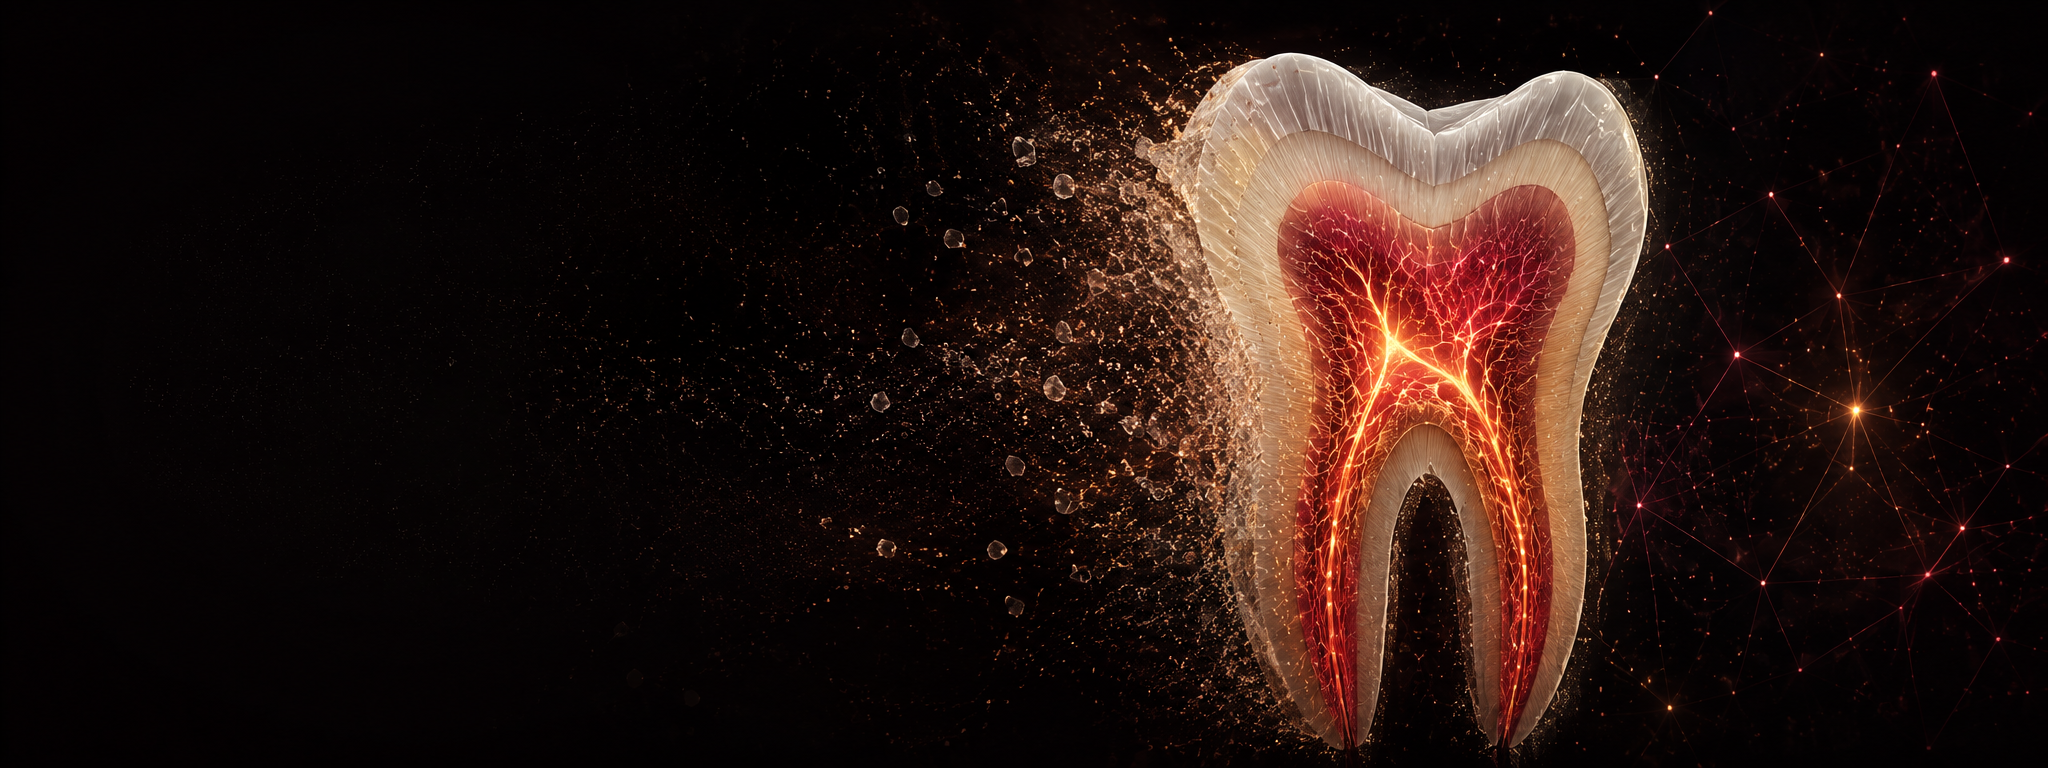
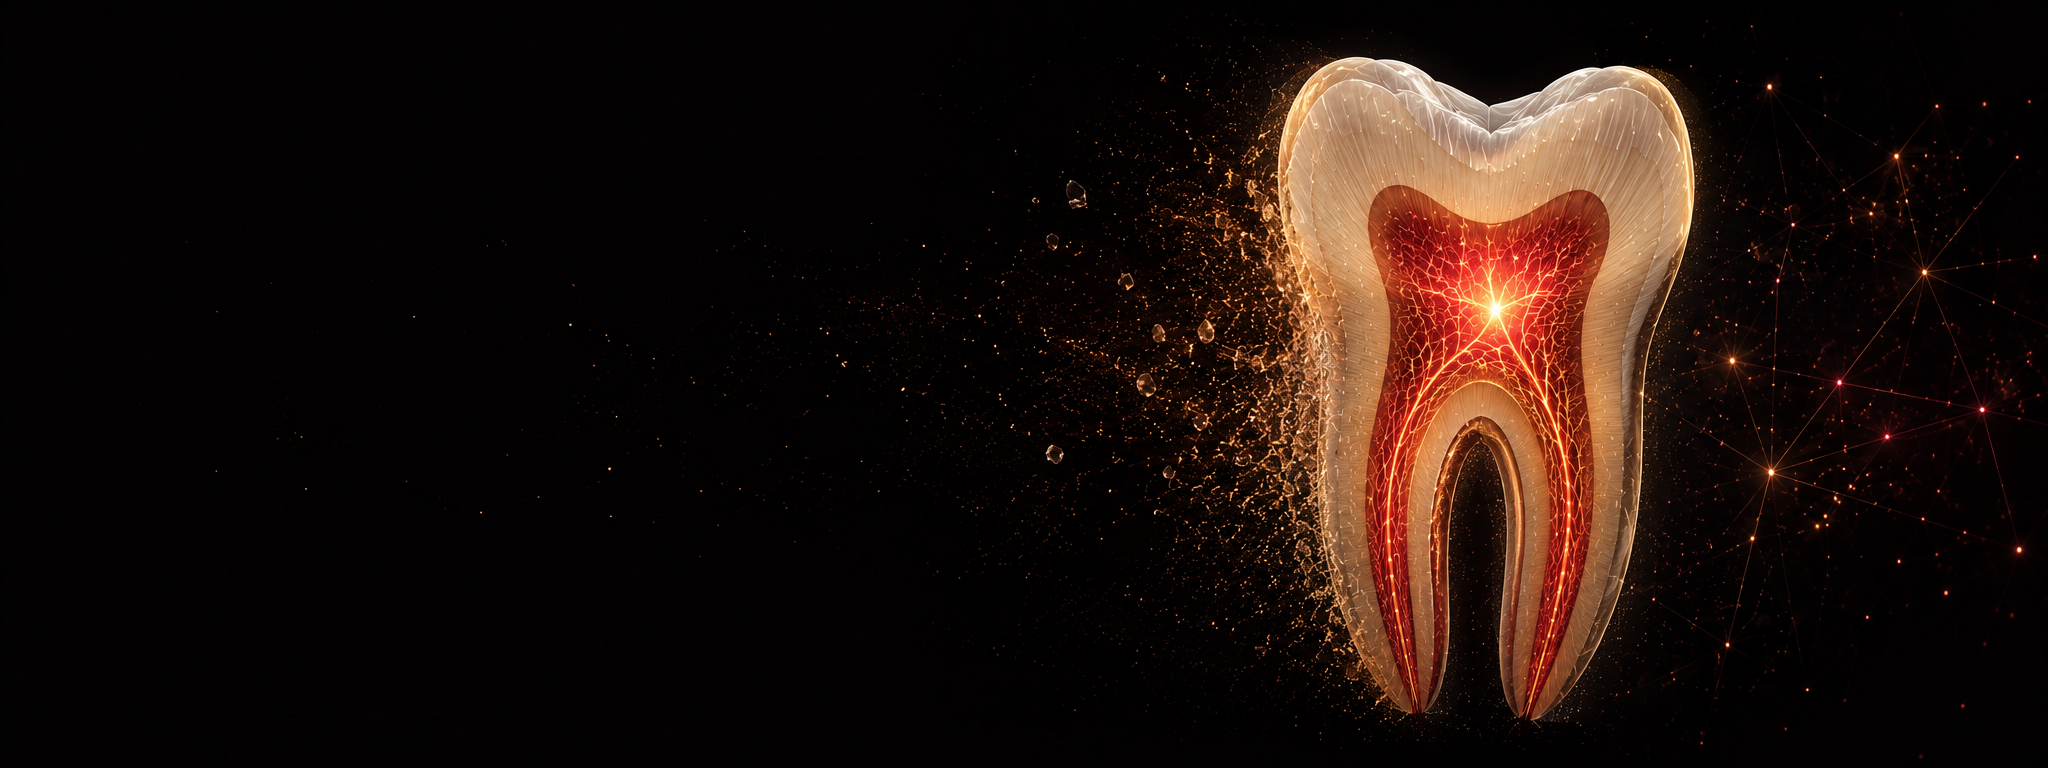
Hero: re-anchor pulp glow onto right-weighted tooth
- New right-weighted hero art (tooth ~72%, dark-left for the manifesto).
- Shift the animated chamber glow + glints + clip by translate(492,-6) so
  the glow blooms inside the pulp again (verified against the new art);
  previously it floated in the embers to the left of the centred tooth.
- Remove the superseded biology-worked-example iframe from Pillar II (the
  living-canal scrollytelling replaces it).

diff --git a/research/pulp-research-pillars.html b/research/pulp-research-pillars.html
@@ -218,7 +218,7 @@ main{position:relative;z-index:2;}
     <figure class="hero-bleed">
       <img class="hero-img2" src="assets/pillars/hero-programme.png" alt="A living tooth in cross-section — mineral matter, a luminous vascular pulp, and a faint computational design-space converging." onerror="this.closest('#hero').classList.add('noimg')">
       <div class="hero-scrim"></div>
-      <svg class="hb-layer" viewBox="0 0 2048 768" preserveAspectRatio="xMidYMid slice" aria-hidden="true"><defs><clipPath id="chClip"><polygon points="925,205 985,188 1050,205 1108,290 1098,400 1078,500 1042,545 1008,468 978,545 942,500 912,400 902,290"/></clipPath><radialGradient id="chGlow" cx="0.5" cy="0.5" r="0.5"><stop offset="0" stop-color="#ffe6be" stop-opacity="0.7"/><stop offset="0.5" stop-color="#eaa056" stop-opacity="0.34"/><stop offset="1" stop-color="#eaa056" stop-opacity="0"/></radialGradient><radialGradient id="chHot" cx="0.5" cy="0.5" r="0.5"><stop offset="0" stop-color="#fff3de" stop-opacity="1"/><stop offset="0.5" stop-color="#ffcf8a" stop-opacity="0.72"/><stop offset="1" stop-color="#ffcf8a" stop-opacity="0"/></radialGradient><filter id="chBlur" x="-60%" y="-60%" width="220%" height="220%"><feGaussianBlur stdDeviation="17"/></filter><filter id="chBlur2" x="-60%" y="-60%" width="220%" height="220%"><feGaussianBlur stdDeviation="8"/></filter></defs><g clip-path="url(#chClip)"><ellipse cx="985" cy="322" rx="140" ry="150" fill="url(#chGlow)" filter="url(#chBlur)"><animate attributeName="opacity" values="0.55;0.9;0.55" dur="3.4s" repeatCount="indefinite"/></ellipse><ellipse cx="985" cy="322" rx="60" ry="66" fill="url(#chHot)" filter="url(#chBlur2)"><animate attributeName="opacity" values="0.7;1;0.7" dur="2.6s" repeatCount="indefinite"/></ellipse><circle r="3.0" cx="985" cy="322" fill="#ffd08a" style="filter:drop-shadow(0 0 6px rgba(255,190,110,1))"><animate attributeName="cx" values="985;933" dur="2.97s" begin="0.63s" repeatCount="indefinite"/><animate attributeName="cy" values="322;381" dur="2.97s" begin="0.63s" repeatCount="indefinite"/><animate attributeName="opacity" values="0;1;0.9;0" keyTimes="0;0.2;0.7;1" dur="2.97s" begin="0.63s" repeatCount="indefinite"/></circle><circle r="2.5" cx="985" cy="322" fill="#f4a6b0" style="filter:drop-shadow(0 0 6px rgba(240,120,150,1))"><animate attributeName="cx" values="985;1064" dur="2.79s" begin="1.77s" repeatCount="indefinite"/><animate attributeName="cy" values="322;248" dur="2.79s" begin="1.77s" repeatCount="indefinite"/><animate attributeName="opacity" values="0;1;0.9;0" keyTimes="0;0.2;0.7;1" dur="2.79s" begin="1.77s" repeatCount="indefinite"/></circle><circle r="2.5" cx="985" cy="322" fill="#ffd08a" style="filter:drop-shadow(0 0 6px rgba(255,190,110,1))"><animate attributeName="cx" values="985;910" dur="2.56s" begin="2.52s" repeatCount="indefinite"/><animate attributeName="cy" values="322;273" dur="2.56s" begin="2.52s" repeatCount="indefinite"/><animate attributeName="opacity" values="0;1;0.9;0" keyTimes="0;0.2;0.7;1" dur="2.56s" begin="2.52s" repeatCount="indefinite"/></circle><circle r="2.3" cx="985" cy="322" fill="#f4a6b0" style="filter:drop-shadow(0 0 6px rgba(240,120,150,1))"><animate attributeName="cx" values="985;910" dur="2.37s" begin="1.78s" repeatCount="indefinite"/><animate attributeName="cy" values="322;257" dur="2.37s" begin="1.78s" repeatCount="indefinite"/><animate attributeName="opacity" values="0;1;0.9;0" keyTimes="0;0.2;0.7;1" dur="2.37s" begin="1.78s" repeatCount="indefinite"/></circle><circle r="2.3" cx="985" cy="322" fill="#ffd08a" style="filter:drop-shadow(0 0 6px rgba(255,190,110,1))"><animate attributeName="cx" values="985;1029" dur="2.92s" begin="0.85s" repeatCount="indefinite"/><animate attributeName="cy" values="322;248" dur="2.92s" begin="0.85s" repeatCount="indefinite"/><animate attributeName="opacity" values="0;1;0.9;0" keyTimes="0;0.2;0.7;1" dur="2.92s" begin="0.85s" repeatCount="indefinite"/></circle><circle r="3.1" cx="985" cy="322" fill="#f4a6b0" style="filter:drop-shadow(0 0 6px rgba(240,120,150,1))"><animate attributeName="cx" values="985;1045" dur="2.5s" begin="2.3s" repeatCount="indefinite"/><animate attributeName="cy" values="322;392" dur="2.5s" begin="2.3s" repeatCount="indefinite"/><animate attributeName="opacity" values="0;1;0.9;0" keyTimes="0;0.2;0.7;1" dur="2.5s" begin="2.3s" repeatCount="indefinite"/></circle><circle r="2.9" cx="985" cy="322" fill="#ffd08a" style="filter:drop-shadow(0 0 6px rgba(255,190,110,1))"><animate attributeName="cx" values="985;931" dur="2.79s" begin="0.56s" repeatCount="indefinite"/><animate attributeName="cy" values="322;259" dur="2.79s" begin="0.56s" repeatCount="indefinite"/><animate attributeName="opacity" values="0;1;0.9;0" keyTimes="0;0.2;0.7;1" dur="2.79s" begin="0.56s" repeatCount="indefinite"/></circle><circle r="2.2" cx="985" cy="322" fill="#f4a6b0" style="filter:drop-shadow(0 0 6px rgba(240,120,150,1))"><animate attributeName="cx" values="985;997" dur="2.22s" begin="0.47s" repeatCount="indefinite"/><animate attributeName="cy" values="322;205" dur="2.22s" begin="0.47s" repeatCount="indefinite"/><animate attributeName="opacity" values="0;1;0.9;0" keyTimes="0;0.2;0.7;1" dur="2.22s" begin="0.47s" repeatCount="indefinite"/></circle><circle r="2.8" cx="985" cy="322" fill="#ffd08a" style="filter:drop-shadow(0 0 6px rgba(255,190,110,1))"><animate attributeName="cx" values="985;1022" dur="2.25s" begin="0.62s" repeatCount="indefinite"/><animate attributeName="cy" values="322;205" dur="2.25s" begin="0.62s" repeatCount="indefinite"/><animate attributeName="opacity" values="0;1;0.9;0" keyTimes="0;0.2;0.7;1" dur="2.25s" begin="0.62s" repeatCount="indefinite"/></circle><circle r="2.7" cx="985" cy="322" fill="#f4a6b0" style="filter:drop-shadow(0 0 6px rgba(240,120,150,1))"><animate attributeName="cx" values="985;978" dur="2.32s" begin="0.86s" repeatCount="indefinite"/><animate attributeName="cy" values="322;205" dur="2.32s" begin="0.86s" repeatCount="indefinite"/><animate attributeName="opacity" values="0;1;0.9;0" keyTimes="0;0.2;0.7;1" dur="2.32s" begin="0.86s" repeatCount="indefinite"/></circle><circle r="2.3" cx="985" cy="322" fill="#ffd08a" style="filter:drop-shadow(0 0 6px rgba(255,190,110,1))"><animate attributeName="cx" values="985;1066" dur="2.74s" begin="0.31s" repeatCount="indefinite"/><animate attributeName="cy" values="322;421" dur="2.74s" begin="0.31s" repeatCount="indefinite"/><animate attributeName="opacity" values="0;1;0.9;0" keyTimes="0;0.2;0.7;1" dur="2.74s" begin="0.31s" repeatCount="indefinite"/></circle><circle r="3.2" cx="985" cy="322" fill="#f4a6b0" style="filter:drop-shadow(0 0 6px rgba(240,120,150,1))"><animate attributeName="cx" values="985;1043" dur="2.68s" begin="1.85s" repeatCount="indefinite"/><animate attributeName="cy" values="322;309" dur="2.68s" begin="1.85s" repeatCount="indefinite"/><animate attributeName="opacity" values="0;1;0.9;0" keyTimes="0;0.2;0.7;1" dur="2.68s" begin="1.85s" repeatCount="indefinite"/></circle><circle r="2.7" cx="985" cy="322" fill="#ffd08a" style="filter:drop-shadow(0 0 6px rgba(255,190,110,1))"><animate attributeName="cx" values="985;916" dur="2.6s" begin="2.52s" repeatCount="indefinite"/><animate attributeName="cy" values="322;261" dur="2.6s" begin="2.52s" repeatCount="indefinite"/><animate attributeName="opacity" values="0;1;0.9;0" keyTimes="0;0.2;0.7;1" dur="2.6s" begin="2.52s" repeatCount="indefinite"/></circle><circle r="3.1" cx="985" cy="322" fill="#f4a6b0" style="filter:drop-shadow(0 0 6px rgba(240,120,150,1))"><animate attributeName="cx" values="985;1068" dur="2.86s" begin="0.08s" repeatCount="indefinite"/><animate attributeName="cy" values="322;256" dur="2.86s" begin="0.08s" repeatCount="indefinite"/><animate attributeName="opacity" values="0;1;0.9;0" keyTimes="0;0.2;0.7;1" dur="2.86s" begin="0.08s" repeatCount="indefinite"/></circle><circle r="2.7" cx="985" cy="322" fill="#ffd08a" style="filter:drop-shadow(0 0 6px rgba(255,190,110,1))"><animate attributeName="cx" values="985;1044" dur="2.95s" begin="1.66s" repeatCount="indefinite"/><animate attributeName="cy" values="322;411" dur="2.95s" begin="1.66s" repeatCount="indefinite"/><animate attributeName="opacity" values="0;1;0.9;0" keyTimes="0;0.2;0.7;1" dur="2.95s" begin="1.66s" repeatCount="indefinite"/></circle><circle r="2.6" cx="985" cy="322" fill="#f4a6b0" style="filter:drop-shadow(0 0 6px rgba(240,120,150,1))"><animate attributeName="cx" values="985;939" dur="2.72s" begin="0.46s" repeatCount="indefinite"/><animate attributeName="cy" values="322;226" dur="2.72s" begin="0.46s" repeatCount="indefinite"/><animate attributeName="opacity" values="0;1;0.9;0" keyTimes="0;0.2;0.7;1" dur="2.72s" begin="0.46s" repeatCount="indefinite"/></circle><circle r="2.9" cx="985" cy="322" fill="#ffd08a" style="filter:drop-shadow(0 0 6px rgba(255,190,110,1))"><animate attributeName="cx" values="985;1048" dur="2.83s" begin="0.19s" repeatCount="indefinite"/><animate attributeName="cy" values="322;338" dur="2.83s" begin="0.19s" repeatCount="indefinite"/><animate attributeName="opacity" values="0;1;0.9;0" keyTimes="0;0.2;0.7;1" dur="2.83s" begin="0.19s" repeatCount="indefinite"/></circle><circle r="2.6" cx="985" cy="322" fill="#f4a6b0" style="filter:drop-shadow(0 0 6px rgba(240,120,150,1))"><animate attributeName="cx" values="985;973" dur="2.68s" begin="0.92s" repeatCount="indefinite"/><animate attributeName="cy" values="322;205" dur="2.68s" begin="0.92s" repeatCount="indefinite"/><animate attributeName="opacity" values="0;1;0.9;0" keyTimes="0;0.2;0.7;1" dur="2.68s" begin="0.92s" repeatCount="indefinite"/></circle><circle r="2.8" cx="985" cy="322" fill="#ffd08a" style="filter:drop-shadow(0 0 6px rgba(255,190,110,1))"><animate attributeName="cx" values="985;910" dur="2.94s" begin="2.36s" repeatCount="indefinite"/><animate attributeName="cy" values="322;287" dur="2.94s" begin="2.36s" repeatCount="indefinite"/><animate attributeName="opacity" values="0;1;0.9;0" keyTimes="0;0.2;0.7;1" dur="2.94s" begin="2.36s" repeatCount="indefinite"/></circle><circle r="2.4" cx="985" cy="322" fill="#f4a6b0" style="filter:drop-shadow(0 0 6px rgba(240,120,150,1))"><animate attributeName="cx" values="985;957" dur="2.32s" begin="2.22s" repeatCount="indefinite"/><animate attributeName="cy" values="322;391" dur="2.32s" begin="2.22s" repeatCount="indefinite"/><animate attributeName="opacity" values="0;1;0.9;0" keyTimes="0;0.2;0.7;1" dur="2.32s" begin="2.22s" repeatCount="indefinite"/></circle><circle r="2.7" cx="985" cy="322" fill="#ffd08a" style="filter:drop-shadow(0 0 6px rgba(255,190,110,1))"><animate attributeName="cx" values="985;1092" dur="2.86s" begin="2.26s" repeatCount="indefinite"/><animate attributeName="cy" values="322;361" dur="2.86s" begin="2.26s" repeatCount="indefinite"/><animate attributeName="opacity" values="0;1;0.9;0" keyTimes="0;0.2;0.7;1" dur="2.86s" begin="2.26s" repeatCount="indefinite"/></circle><circle r="2.3" cx="985" cy="322" fill="#f4a6b0" style="filter:drop-shadow(0 0 6px rgba(240,120,150,1))"><animate attributeName="cx" values="985;985" dur="2.67s" begin="0.79s" repeatCount="indefinite"/><animate attributeName="cy" values="322;205" dur="2.67s" begin="0.79s" repeatCount="indefinite"/><animate attributeName="opacity" values="0;1;0.9;0" keyTimes="0;0.2;0.7;1" dur="2.67s" begin="0.79s" repeatCount="indefinite"/></circle><circle r="3.0" cx="985" cy="322" fill="#ffd08a" style="filter:drop-shadow(0 0 6px rgba(255,190,110,1))"><animate attributeName="cx" values="985;1063" dur="2.75s" begin="0.62s" repeatCount="indefinite"/><animate attributeName="cy" values="322;421" dur="2.75s" begin="0.62s" repeatCount="indefinite"/><animate attributeName="opacity" values="0;1;0.9;0" keyTimes="0;0.2;0.7;1" dur="2.75s" begin="0.62s" repeatCount="indefinite"/></circle><circle r="2.6" cx="985" cy="322" fill="#f4a6b0" style="filter:drop-shadow(0 0 6px rgba(240,120,150,1))"><animate attributeName="cx" values="985;984" dur="2.68s" begin="0.61s" repeatCount="indefinite"/><animate attributeName="cy" values="322;208" dur="2.68s" begin="0.61s" repeatCount="indefinite"/><animate attributeName="opacity" values="0;1;0.9;0" keyTimes="0;0.2;0.7;1" dur="2.68s" begin="0.61s" repeatCount="indefinite"/></circle></g></svg>
+      <svg class="hb-layer" viewBox="0 0 2048 768" preserveAspectRatio="xMidYMid slice" aria-hidden="true"><defs><clipPath id="chClip"><polygon points="925,205 985,188 1050,205 1108,290 1098,400 1078,500 1042,545 1008,468 978,545 942,500 912,400 902,290"/></clipPath><radialGradient id="chGlow" cx="0.5" cy="0.5" r="0.5"><stop offset="0" stop-color="#ffe6be" stop-opacity="0.7"/><stop offset="0.5" stop-color="#eaa056" stop-opacity="0.34"/><stop offset="1" stop-color="#eaa056" stop-opacity="0"/></radialGradient><radialGradient id="chHot" cx="0.5" cy="0.5" r="0.5"><stop offset="0" stop-color="#fff3de" stop-opacity="1"/><stop offset="0.5" stop-color="#ffcf8a" stop-opacity="0.72"/><stop offset="1" stop-color="#ffcf8a" stop-opacity="0"/></radialGradient><filter id="chBlur" x="-60%" y="-60%" width="220%" height="220%"><feGaussianBlur stdDeviation="17"/></filter><filter id="chBlur2" x="-60%" y="-60%" width="220%" height="220%"><feGaussianBlur stdDeviation="8"/></filter></defs><g clip-path="url(#chClip)" transform="translate(492,-6)"><ellipse cx="985" cy="322" rx="140" ry="150" fill="url(#chGlow)" filter="url(#chBlur)"><animate attributeName="opacity" values="0.55;0.9;0.55" dur="3.4s" repeatCount="indefinite"/></ellipse><ellipse cx="985" cy="322" rx="60" ry="66" fill="url(#chHot)" filter="url(#chBlur2)"><animate attributeName="opacity" values="0.7;1;0.7" dur="2.6s" repeatCount="indefinite"/></ellipse><circle r="3.0" cx="985" cy="322" fill="#ffd08a" style="filter:drop-shadow(0 0 6px rgba(255,190,110,1))"><animate attributeName="cx" values="985;933" dur="2.97s" begin="0.63s" repeatCount="indefinite"/><animate attributeName="cy" values="322;381" dur="2.97s" begin="0.63s" repeatCount="indefinite"/><animate attributeName="opacity" values="0;1;0.9;0" keyTimes="0;0.2;0.7;1" dur="2.97s" begin="0.63s" repeatCount="indefinite"/></circle><circle r="2.5" cx="985" cy="322" fill="#f4a6b0" style="filter:drop-shadow(0 0 6px rgba(240,120,150,1))"><animate attributeName="cx" values="985;1064" dur="2.79s" begin="1.77s" repeatCount="indefinite"/><animate attributeName="cy" values="322;248" dur="2.79s" begin="1.77s" repeatCount="indefinite"/><animate attributeName="opacity" values="0;1;0.9;0" keyTimes="0;0.2;0.7;1" dur="2.79s" begin="1.77s" repeatCount="indefinite"/></circle><circle r="2.5" cx="985" cy="322" fill="#ffd08a" style="filter:drop-shadow(0 0 6px rgba(255,190,110,1))"><animate attributeName="cx" values="985;910" dur="2.56s" begin="2.52s" repeatCount="indefinite"/><animate attributeName="cy" values="322;273" dur="2.56s" begin="2.52s" repeatCount="indefinite"/><animate attributeName="opacity" values="0;1;0.9;0" keyTimes="0;0.2;0.7;1" dur="2.56s" begin="2.52s" repeatCount="indefinite"/></circle><circle r="2.3" cx="985" cy="322" fill="#f4a6b0" style="filter:drop-shadow(0 0 6px rgba(240,120,150,1))"><animate attributeName="cx" values="985;910" dur="2.37s" begin="1.78s" repeatCount="indefinite"/><animate attributeName="cy" values="322;257" dur="2.37s" begin="1.78s" repeatCount="indefinite"/><animate attributeName="opacity" values="0;1;0.9;0" keyTimes="0;0.2;0.7;1" dur="2.37s" begin="1.78s" repeatCount="indefinite"/></circle><circle r="2.3" cx="985" cy="322" fill="#ffd08a" style="filter:drop-shadow(0 0 6px rgba(255,190,110,1))"><animate attributeName="cx" values="985;1029" dur="2.92s" begin="0.85s" repeatCount="indefinite"/><animate attributeName="cy" values="322;248" dur="2.92s" begin="0.85s" repeatCount="indefinite"/><animate attributeName="opacity" values="0;1;0.9;0" keyTimes="0;0.2;0.7;1" dur="2.92s" begin="0.85s" repeatCount="indefinite"/></circle><circle r="3.1" cx="985" cy="322" fill="#f4a6b0" style="filter:drop-shadow(0 0 6px rgba(240,120,150,1))"><animate attributeName="cx" values="985;1045" dur="2.5s" begin="2.3s" repeatCount="indefinite"/><animate attributeName="cy" values="322;392" dur="2.5s" begin="2.3s" repeatCount="indefinite"/><animate attributeName="opacity" values="0;1;0.9;0" keyTimes="0;0.2;0.7;1" dur="2.5s" begin="2.3s" repeatCount="indefinite"/></circle><circle r="2.9" cx="985" cy="322" fill="#ffd08a" style="filter:drop-shadow(0 0 6px rgba(255,190,110,1))"><animate attributeName="cx" values="985;931" dur="2.79s" begin="0.56s" repeatCount="indefinite"/><animate attributeName="cy" values="322;259" dur="2.79s" begin="0.56s" repeatCount="indefinite"/><animate attributeName="opacity" values="0;1;0.9;0" keyTimes="0;0.2;0.7;1" dur="2.79s" begin="0.56s" repeatCount="indefinite"/></circle><circle r="2.2" cx="985" cy="322" fill="#f4a6b0" style="filter:drop-shadow(0 0 6px rgba(240,120,150,1))"><animate attributeName="cx" values="985;997" dur="2.22s" begin="0.47s" repeatCount="indefinite"/><animate attributeName="cy" values="322;205" dur="2.22s" begin="0.47s" repeatCount="indefinite"/><animate attributeName="opacity" values="0;1;0.9;0" keyTimes="0;0.2;0.7;1" dur="2.22s" begin="0.47s" repeatCount="indefinite"/></circle><circle r="2.8" cx="985" cy="322" fill="#ffd08a" style="filter:drop-shadow(0 0 6px rgba(255,190,110,1))"><animate attributeName="cx" values="985;1022" dur="2.25s" begin="0.62s" repeatCount="indefinite"/><animate attributeName="cy" values="322;205" dur="2.25s" begin="0.62s" repeatCount="indefinite"/><animate attributeName="opacity" values="0;1;0.9;0" keyTimes="0;0.2;0.7;1" dur="2.25s" begin="0.62s" repeatCount="indefinite"/></circle><circle r="2.7" cx="985" cy="322" fill="#f4a6b0" style="filter:drop-shadow(0 0 6px rgba(240,120,150,1))"><animate attributeName="cx" values="985;978" dur="2.32s" begin="0.86s" repeatCount="indefinite"/><animate attributeName="cy" values="322;205" dur="2.32s" begin="0.86s" repeatCount="indefinite"/><animate attributeName="opacity" values="0;1;0.9;0" keyTimes="0;0.2;0.7;1" dur="2.32s" begin="0.86s" repeatCount="indefinite"/></circle><circle r="2.3" cx="985" cy="322" fill="#ffd08a" style="filter:drop-shadow(0 0 6px rgba(255,190,110,1))"><animate attributeName="cx" values="985;1066" dur="2.74s" begin="0.31s" repeatCount="indefinite"/><animate attributeName="cy" values="322;421" dur="2.74s" begin="0.31s" repeatCount="indefinite"/><animate attributeName="opacity" values="0;1;0.9;0" keyTimes="0;0.2;0.7;1" dur="2.74s" begin="0.31s" repeatCount="indefinite"/></circle><circle r="3.2" cx="985" cy="322" fill="#f4a6b0" style="filter:drop-shadow(0 0 6px rgba(240,120,150,1))"><animate attributeName="cx" values="985;1043" dur="2.68s" begin="1.85s" repeatCount="indefinite"/><animate attributeName="cy" values="322;309" dur="2.68s" begin="1.85s" repeatCount="indefinite"/><animate attributeName="opacity" values="0;1;0.9;0" keyTimes="0;0.2;0.7;1" dur="2.68s" begin="1.85s" repeatCount="indefinite"/></circle><circle r="2.7" cx="985" cy="322" fill="#ffd08a" style="filter:drop-shadow(0 0 6px rgba(255,190,110,1))"><animate attributeName="cx" values="985;916" dur="2.6s" begin="2.52s" repeatCount="indefinite"/><animate attributeName="cy" values="322;261" dur="2.6s" begin="2.52s" repeatCount="indefinite"/><animate attributeName="opacity" values="0;1;0.9;0" keyTimes="0;0.2;0.7;1" dur="2.6s" begin="2.52s" repeatCount="indefinite"/></circle><circle r="3.1" cx="985" cy="322" fill="#f4a6b0" style="filter:drop-shadow(0 0 6px rgba(240,120,150,1))"><animate attributeName="cx" values="985;1068" dur="2.86s" begin="0.08s" repeatCount="indefinite"/><animate attributeName="cy" values="322;256" dur="2.86s" begin="0.08s" repeatCount="indefinite"/><animate attributeName="opacity" values="0;1;0.9;0" keyTimes="0;0.2;0.7;1" dur="2.86s" begin="0.08s" repeatCount="indefinite"/></circle><circle r="2.7" cx="985" cy="322" fill="#ffd08a" style="filter:drop-shadow(0 0 6px rgba(255,190,110,1))"><animate attributeName="cx" values="985;1044" dur="2.95s" begin="1.66s" repeatCount="indefinite"/><animate attributeName="cy" values="322;411" dur="2.95s" begin="1.66s" repeatCount="indefinite"/><animate attributeName="opacity" values="0;1;0.9;0" keyTimes="0;0.2;0.7;1" dur="2.95s" begin="1.66s" repeatCount="indefinite"/></circle><circle r="2.6" cx="985" cy="322" fill="#f4a6b0" style="filter:drop-shadow(0 0 6px rgba(240,120,150,1))"><animate attributeName="cx" values="985;939" dur="2.72s" begin="0.46s" repeatCount="indefinite"/><animate attributeName="cy" values="322;226" dur="2.72s" begin="0.46s" repeatCount="indefinite"/><animate attributeName="opacity" values="0;1;0.9;0" keyTimes="0;0.2;0.7;1" dur="2.72s" begin="0.46s" repeatCount="indefinite"/></circle><circle r="2.9" cx="985" cy="322" fill="#ffd08a" style="filter:drop-shadow(0 0 6px rgba(255,190,110,1))"><animate attributeName="cx" values="985;1048" dur="2.83s" begin="0.19s" repeatCount="indefinite"/><animate attributeName="cy" values="322;338" dur="2.83s" begin="0.19s" repeatCount="indefinite"/><animate attributeName="opacity" values="0;1;0.9;0" keyTimes="0;0.2;0.7;1" dur="2.83s" begin="0.19s" repeatCount="indefinite"/></circle><circle r="2.6" cx="985" cy="322" fill="#f4a6b0" style="filter:drop-shadow(0 0 6px rgba(240,120,150,1))"><animate attributeName="cx" values="985;973" dur="2.68s" begin="0.92s" repeatCount="indefinite"/><animate attributeName="cy" values="322;205" dur="2.68s" begin="0.92s" repeatCount="indefinite"/><animate attributeName="opacity" values="0;1;0.9;0" keyTimes="0;0.2;0.7;1" dur="2.68s" begin="0.92s" repeatCount="indefinite"/></circle><circle r="2.8" cx="985" cy="322" fill="#ffd08a" style="filter:drop-shadow(0 0 6px rgba(255,190,110,1))"><animate attributeName="cx" values="985;910" dur="2.94s" begin="2.36s" repeatCount="indefinite"/><animate attributeName="cy" values="322;287" dur="2.94s" begin="2.36s" repeatCount="indefinite"/><animate attributeName="opacity" values="0;1;0.9;0" keyTimes="0;0.2;0.7;1" dur="2.94s" begin="2.36s" repeatCount="indefinite"/></circle><circle r="2.4" cx="985" cy="322" fill="#f4a6b0" style="filter:drop-shadow(0 0 6px rgba(240,120,150,1))"><animate attributeName="cx" values="985;957" dur="2.32s" begin="2.22s" repeatCount="indefinite"/><animate attributeName="cy" values="322;391" dur="2.32s" begin="2.22s" repeatCount="indefinite"/><animate attributeName="opacity" values="0;1;0.9;0" keyTimes="0;0.2;0.7;1" dur="2.32s" begin="2.22s" repeatCount="indefinite"/></circle><circle r="2.7" cx="985" cy="322" fill="#ffd08a" style="filter:drop-shadow(0 0 6px rgba(255,190,110,1))"><animate attributeName="cx" values="985;1092" dur="2.86s" begin="2.26s" repeatCount="indefinite"/><animate attributeName="cy" values="322;361" dur="2.86s" begin="2.26s" repeatCount="indefinite"/><animate attributeName="opacity" values="0;1;0.9;0" keyTimes="0;0.2;0.7;1" dur="2.86s" begin="2.26s" repeatCount="indefinite"/></circle><circle r="2.3" cx="985" cy="322" fill="#f4a6b0" style="filter:drop-shadow(0 0 6px rgba(240,120,150,1))"><animate attributeName="cx" values="985;985" dur="2.67s" begin="0.79s" repeatCount="indefinite"/><animate attributeName="cy" values="322;205" dur="2.67s" begin="0.79s" repeatCount="indefinite"/><animate attributeName="opacity" values="0;1;0.9;0" keyTimes="0;0.2;0.7;1" dur="2.67s" begin="0.79s" repeatCount="indefinite"/></circle><circle r="3.0" cx="985" cy="322" fill="#ffd08a" style="filter:drop-shadow(0 0 6px rgba(255,190,110,1))"><animate attributeName="cx" values="985;1063" dur="2.75s" begin="0.62s" repeatCount="indefinite"/><animate attributeName="cy" values="322;421" dur="2.75s" begin="0.62s" repeatCount="indefinite"/><animate attributeName="opacity" values="0;1;0.9;0" keyTimes="0;0.2;0.7;1" dur="2.75s" begin="0.62s" repeatCount="indefinite"/></circle><circle r="2.6" cx="985" cy="322" fill="#f4a6b0" style="filter:drop-shadow(0 0 6px rgba(240,120,150,1))"><animate attributeName="cx" values="985;984" dur="2.68s" begin="0.61s" repeatCount="indefinite"/><animate attributeName="cy" values="322;208" dur="2.68s" begin="0.61s" repeatCount="indefinite"/><animate attributeName="opacity" values="0;1;0.9;0" keyTimes="0;0.2;0.7;1" dur="2.68s" begin="0.61s" repeatCount="indefinite"/></circle></g></svg>
       <div class="hero-over">
         <div class="hero-status"><span class="blink"></span> Dental Pulp Regeneration &middot; NUS Dentistry</div>
         <p class="hero-kicker">Dental pulp regeneration &middot; matter, tissue, innovation</p>